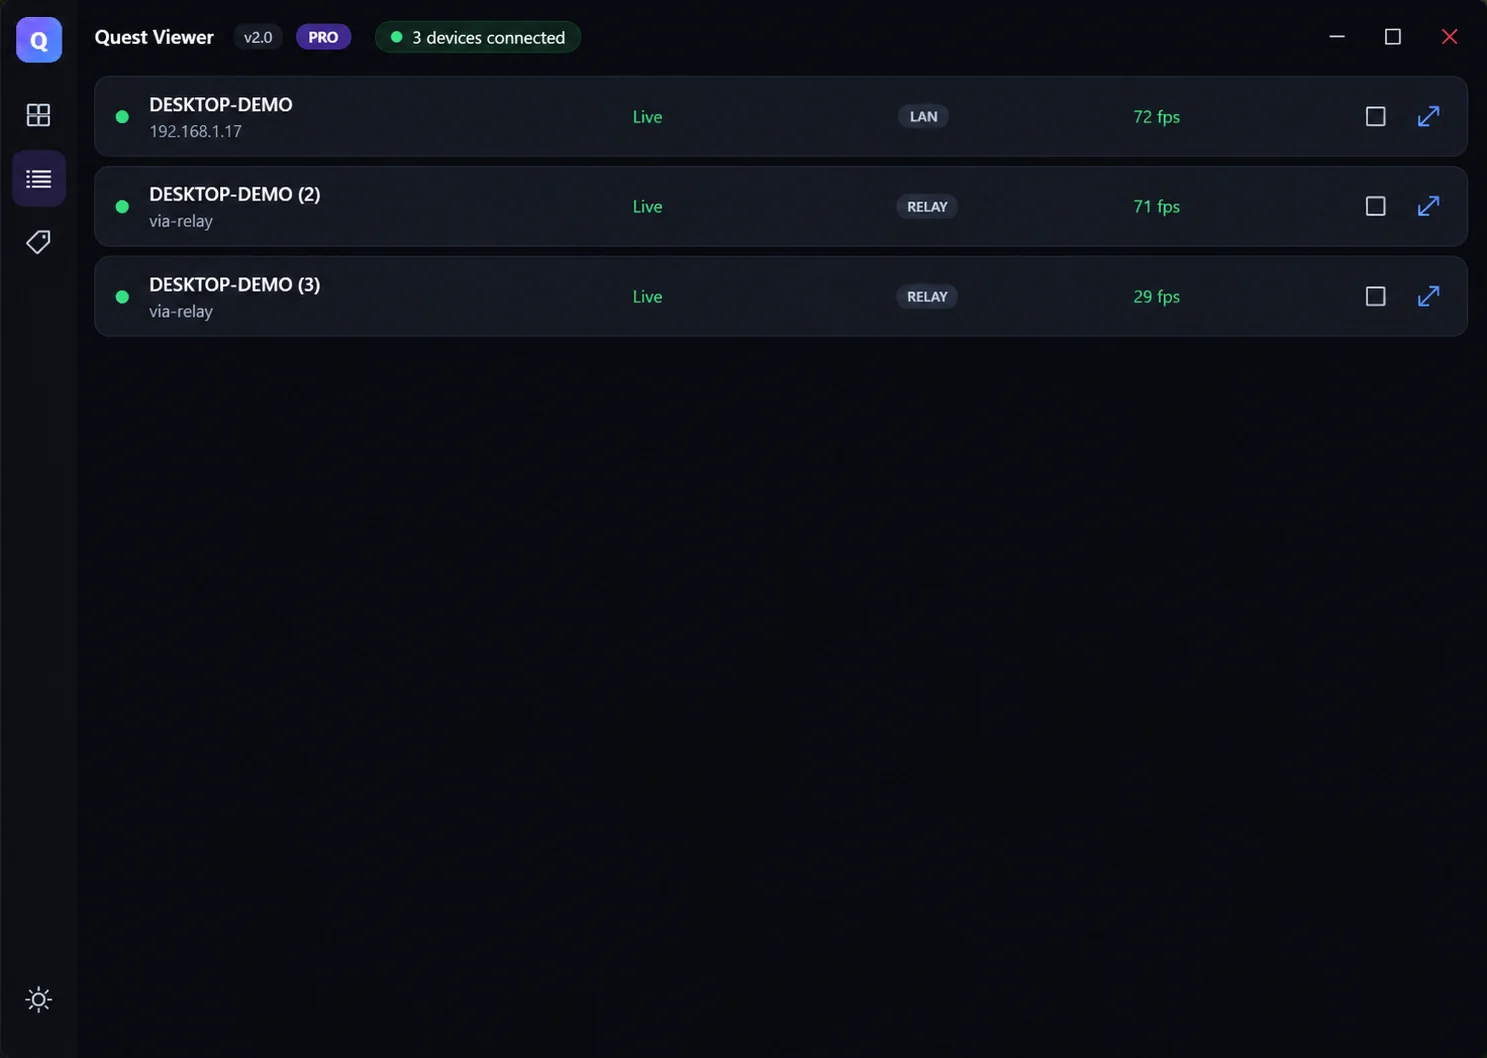
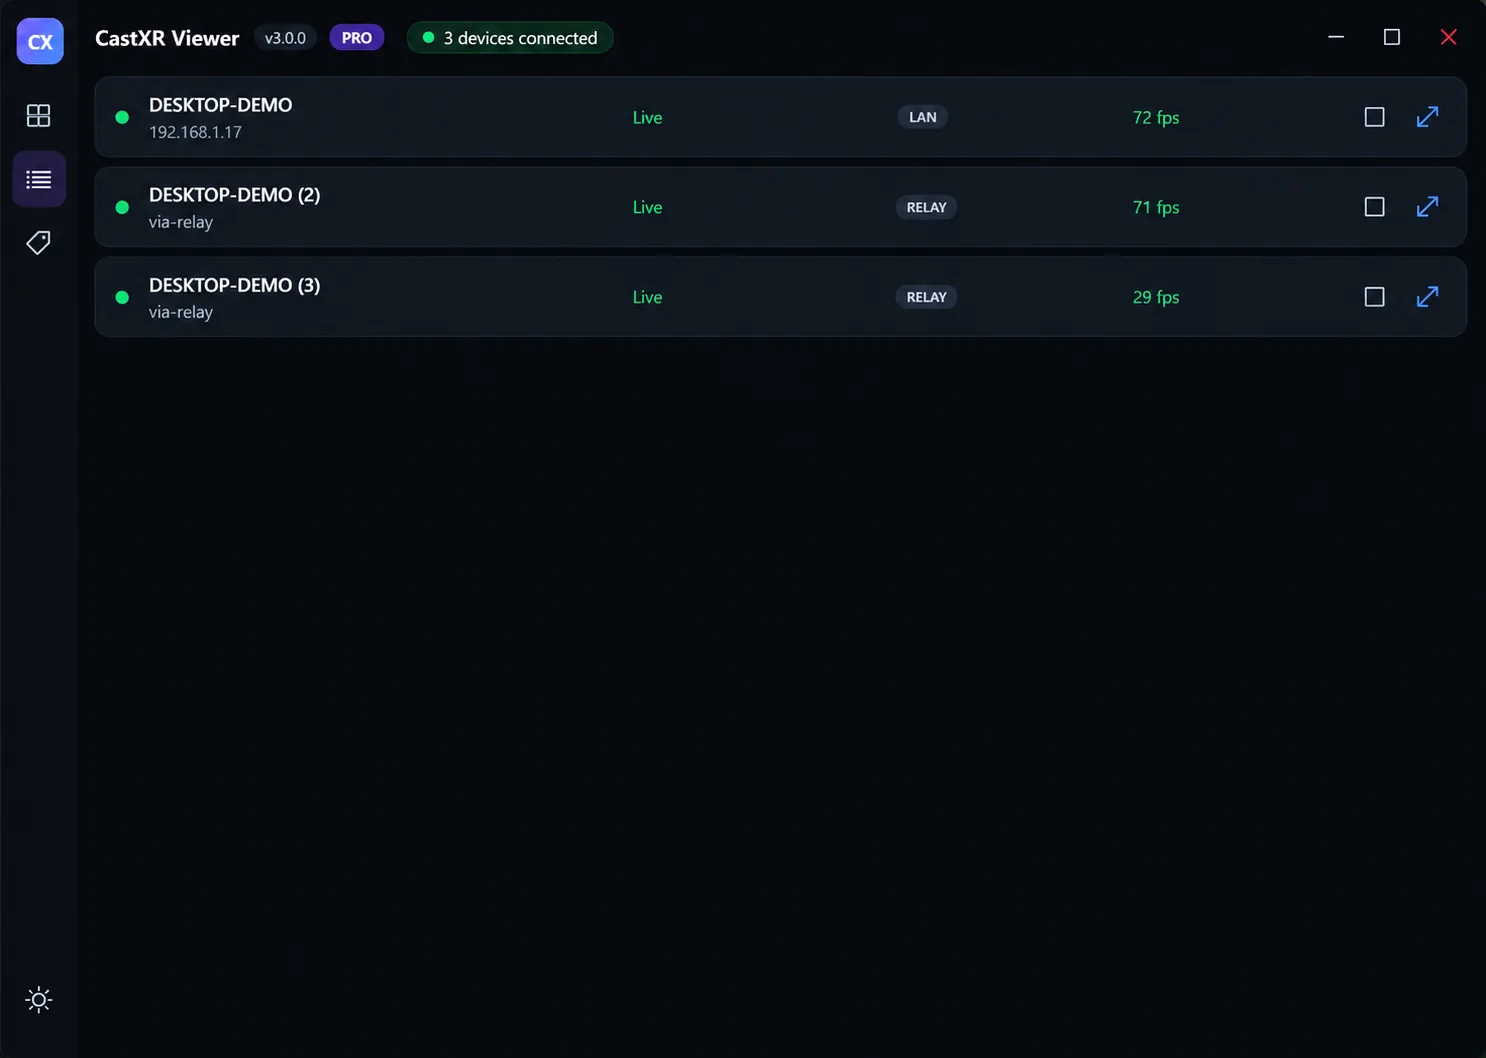
CastXR rename, v3.0.0 images, Asset Store links, manual update

diff --git a/manual.html b/manual.html
@@ -62,7 +62,7 @@
   <a class="back" href="./">← CastXR Viewer</a>
 
   <h1>CastXR Viewer — User Manual</h1>
-  <p class="updated">For version 3.0.0 · Last updated 18 September 2026</p>
+  <p class="updated">For version 3.0.0 · Last updated 24 September 2026</p>
 
   <p class="lede">CastXR Viewer displays your Unity VR application, running on Meta Quest headsets,
      live on a Windows PC. One headset or a room full of them, side by side.</p>
@@ -200,19 +200,35 @@
     <li><strong>Fullscreen</strong> — <strong>double-click any tile</strong>. Press
         <kbd>Esc</kbd> to come back. A toolbar along the bottom carries stream quality and
         recording.</li>
+    <li><strong>Separate window</strong> — pull any headset out into its own window and drag it to
+        a second monitor. See <a href="#streaming">section 5</a>.</li>
   </ul>
+
+  <h3>The tile toolbar</h3>
+  <p>Each tile carries its controls along the bottom-right, because the video area itself does not
+     accept clicks — it is rendered by a component that takes mouse input before the app sees it.
+     Everything you need is on this strip:</p>
+  <table>
+    <tr><th>Button</th><th>What it does</th></tr>
+    <tr><td><strong>Quality</strong></td><td>Resolution, frame rate and bitrate for this headset.</td></tr>
+    <tr><td><strong>Fullscreen</strong></td><td>Expand this headset to fill the window.</td></tr>
+    <tr><td><strong>Detach</strong></td><td>Open this headset in its own window.</td></tr>
+    <tr><td><strong>Record</strong></td><td>Start or stop recording. Turns red while recording.</td></tr>
+    <tr><td><strong>Stop</strong></td><td>End this headset's stream.</td></tr>
+  </table>
 
   <h2 id="streaming">5. Streaming, quality and multiple headsets</h2>
 
   <h3>Starting and stopping</h3>
-  <p>Streams start automatically when a headset is discovered. To control one by hand,
-     <strong>right-click its tile</strong>:</p>
-  <ul>
-    <li><strong>Open Fullscreen</strong></li>
-    <li><strong>Start Stream</strong> / <strong>Stop Stream</strong></li>
-    <li><strong>Stream Quality</strong> — see below</li>
-    <li><strong>Start Recording</strong> / <strong>Stop Recording</strong></li>
-  </ul>
+  <p>Streams start automatically when a headset is discovered. To control one by hand, use the
+     <strong>toolbar along the bottom of its tile</strong> — quality, fullscreen, detach, record
+     and stop.</p>
+  <div class="card note">
+    <p>Right-clicking works over the tile's <em>footer</em>, but not over the video itself. The
+       video is drawn by a component that takes mouse input before the app sees it, so a
+       right-click there goes nowhere. Everything in that menu is on the toolbar as a visible
+       button, which is why the buttons are there.</p>
+  </div>
 
   <h3>Stream quality</h3>
   <p>Three presets, per headset. Higher settings need more Wi-Fi headroom, so if video stutters
@@ -241,20 +257,46 @@
      and listed, but its stream is held until the first one stops. The trial and paid tiers remove
      the limit — the practical ceiling becomes your Wi-Fi, not the licence.</p>
 
+  <p>Tiles <strong>fill the window</strong> and rearrange themselves as headsets join and leave, so
+     a room of them stays readable. Make the window bigger and every tile grows with it.</p>
+
+  <h3>Watching on more than one screen</h3>
+  <p>Click the <strong>detach</strong> button in a tile's toolbar to open that headset in its own
+     window, which you can move to a second monitor and resize freely. Useful when you want one
+     participant large on a projector while the rest stay on the grid.</p>
+  <p>While a headset is detached, its tile shows a placeholder saying where the video went. That is
+     not a fault: there is only ever <strong>one live view per headset</strong>, so the video moves
+     rather than being duplicated. Showing it twice would mean a second connection and a second
+     decode for every headset.</p>
+  <p>Close the separate window and the video returns to its tile.</p>
+
   <h2 id="recording">6. Recording a session</h2>
 
   <p>Recording is a paid feature, available during the trial.</p>
   <ol>
-    <li>Right-click a tile → <strong>Start Recording</strong>, or use the toolbar in
-        fullscreen.</li>
-    <li>Right-click → <strong>Stop Recording</strong> to finish and write the file.</li>
+    <li>Click the <strong>red record button</strong> in the tile's bottom-right toolbar. It turns
+        red and a <strong>REC</strong> badge appears next to the headset name.</li>
+    <li>Click it again to stop and finish writing the file.</li>
   </ol>
-  <p>Recordings are saved on your own computer and are never uploaded anywhere. Each headset
-     records independently, so you can capture one participant while others stream normally.</p>
 
-  <div class="card warn">
-    <p><strong>Stop the recording before closing the app.</strong> A file still being written when
-       the app exits may be incomplete.</p>
+  <h3>Where recordings go</h3>
+  <p>Files are written to <code>Videos\CastXR</code>, named after the headset and the moment you
+     started:</p>
+  <p><code>Quest 2_2026-09-20_00-59-18.mp4</code></p>
+  <p>They are saved on your own computer and are never uploaded anywhere. Each headset records
+     independently, so you can capture one participant while others stream normally. Up to three
+     headsets can record at once.</p>
+
+  <h3>What gets captured</h3>
+  <p>Only the headset's video, encoded by your graphics card. Windows you drag over the top do not
+     appear in the file, and the recording keeps running if the app is behind another window.</p>
+  <p>You can record a headset that is in its own separate window, or fullscreen, as well as from
+     the grid.</p>
+
+  <div class="card note">
+    <p>If a recording will not start, the app now tells you why rather than failing quietly. The
+       most common reason is that the headset's video is not currently on screen — scroll its tile
+       into view, or open it fullscreen, and try again.</p>
   </div>
 
   <h2 id="licensing">7. Free tier, trial and licences</h2>

diff --git a/index.html b/index.html
@@ -297,18 +297,18 @@
 
     <div class="carousel rev" id="shots" aria-roledescription="carousel" aria-label="CastXR Viewer screenshots">
       <div class="frame">
-        <img class="on" src="grid-view-new.webp" width="1543" height="1019"
+        <img class="on" src="grid-view-new.webp" width="1584" height="993"
              data-cap="Three headsets streaming at once, with live codec, frame rate and bitrate per tile. Tiles stay in place when a headset drops, and reconnect on their own."
              alt="CastXR Viewer showing three Meta Quest headsets streaming live side by side with per-tile statistics">
         <img src="expanded-view-new.webp" width="1491" height="1055" loading="lazy"
              data-cap="Fullscreen — one headset, full window, with live stats and Prev/Next to move between headsets without leaving the view."
              alt="A single Meta Quest headset in fullscreen at 72 fps with live decoder statistics">
-        <img src="list-view.webp" width="1487" height="1058" loading="lazy"
+        <img src="list-view.webp" width="1486" height="1058" loading="lazy"
              data-cap="List view — a dense operator view for a room full of headsets: state, transport and frame rate per row."
              alt="CastXR Viewer list view showing connected headsets with status and frame rate per row">
-        <img src="grid-view-alt.webp" width="1584" height="993" loading="lazy"
-             data-cap="Tile grid — every headset on the network at a glance, each showing its own codec and connection state."
-             alt="CastXR Viewer tile grid with several Meta Quest headsets streaming simultaneously">
+        <img src="grid-view-alt.webp" width="1920" height="1080" loading="lazy"
+             data-cap="Open it and wait. Headsets on the same Wi-Fi announce themselves — no IP addresses, no pairing codes, nothing to configure."
+             alt="CastXR Viewer on first launch, listening for headsets on the network">
         <img src="pricing-page.webp" width="1920" height="1080" loading="lazy"
              data-cap="Plans and pricing, in the app — pick a term and the prices update. The plan you are on is marked."
              alt="CastXR Viewer plans and pricing page with Free, Pro and Organization tiers">

diff --git a/privacy.html b/privacy.html
@@ -74,8 +74,10 @@
         support and process refunds.</li>
     <li>Payment details are handled entirely by Dodo Payments, which acts as merchant of record.
         We never see or store your card number.</li>
-    <li>Settings, licence state and any recordings you make stay on your own computer, under
-        <code>%APPDATA%\QuestViewer</code>. Recordings are never uploaded.</li>
+    <li>Settings and licence state stay on your own computer, under
+        <code>%APPDATA%\QuestViewer</code>.</li>
+    <li>Recordings are written to your own <code>Videos\CastXR</code> folder and are never
+        uploaded. We cannot see them.</li>
   </ul>
 
   <h2>What we do not do</h2>
